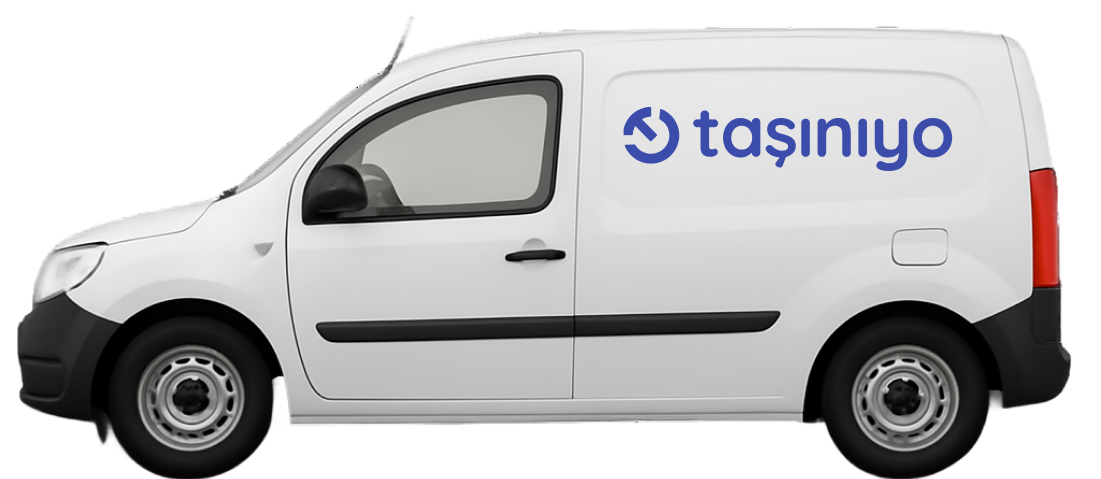
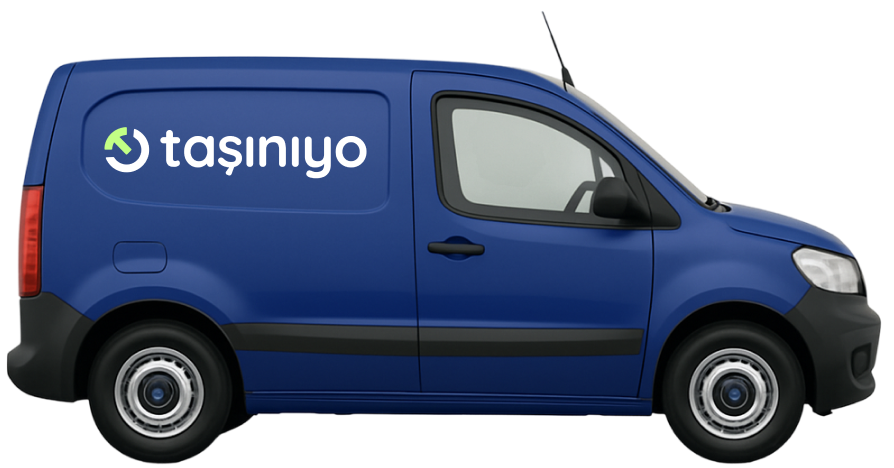
Refactor index.html layout and form design for improved user experience. Removed marquee effects for car images and text, updated form fields to use radio buttons for vehicle type selection, and enhanced styling for better responsiveness. Added new car images and replaced the old board image. Remove

diff --git a/index.html b/index.html
@@ -26,126 +26,114 @@
       background-color: #3C4CAB;
       margin: 0;
     }
-    .fixed-marquee-cars {
-      position: fixed;
-      bottom: 24px;
-      width: 100%;
-      overflow: hidden;
-      box-sizing: border-box;
-      padding: 8px 0;
-    }
-
-    .cars-container {
-      display: flex;
-      animation: scroll-cars 15s linear infinite;
-    }
-
-    .car-image {
-      height: 40px;
-      width: auto;
-      object-fit: contain;
-      flex-shrink: 0;
-    }
-
-    @keyframes scroll-cars {
-      0% { transform: translateX(0); }
-      100% { transform: translateX(-50%); }
-    }
-
-    .fixed-marquee {
-      position: fixed;
-      bottom: 0;
-      width: 100%;
-      background-color: #000;
-      overflow: hidden;
-      white-space: nowrap;
-      box-sizing: border-box;
-      padding: 4px 0;
-    }
-
-    .fixed-marquee span {
-      display: inline-block;
-      white-space: nowrap;
-      color: #fff;
-      font-size: 14px;
-      font-weight: 500;
-      padding-left: 0;
-      animation: scroll-text 120s linear infinite;
-    }
-
-    @keyframes scroll-text {
-      0% { transform: translateX(0); }
-      100% { transform: translateX(-50%); }
-    }
   </style>
 </head>
 <body>
-  <div class="flex flex-row max-w-7xl p-5 mx-auto w-full justify-between">
-    <div class="pt-8">
-      <img src="./assets/logo.webp" alt="Logo" class="h-14">
-      <p class="text-[#FFCA28] text-lg font-semibold mt-12 tracking-tight">#En sevilen taşımacılık platformu</p>
-      <h1 class="text-white text-6xl leading-[1.1] font-bold mt-2 tracking-tight">Aracınızı ve zamanınızı <br>gelire dönüştürün!</h1>
-      <p class="text-white/80 text-lg my-6">
+  <div class="flex xl:flex-row flex-col gap-16 max-w-7xl px-5 pb-5 pt-8 md:pt-16 mx-auto w-full justify-between">
+    <div class="flex justify-center items-center flex-col xl:block xl:text-left text-center">
+      <img src="./assets/logo.webp" alt="Logo" class="md:h-14 h-10">
+      <p class="text-[#FFCA28] text-lg font-semibold md:mt-16 mt-12 tracking-tight">#ensevilentasimacilikplatformu</p>
+      <h1 class="text-white md:text-6xl text-4xl leading-[1.1] font-bold mt-2 tracking-tight">Aracınızı ve zamanınızı <br>gelire dönüştürün!</h1>
+      <p class="text-white/80 md:text-lg text-sm my-6">
         Bu eşsiz fırsatı kaçırma! Taşınıyo'ya ilk katılan 100 sürücüden biri ol,<br> 3 ay boyunca yaptığın işlerin tamamını cebine koy!
       </p>
-      <div class="mt-16">
-        <img src="./assets/board.webp" alt="Board" class="w-[40rem]">
-      </div>
+      <button class="bg-[#FFCA28] py-3 px-6 text-center rounded-full text-black font-medium my-6 xl:hidden">Ayrıcalıklı Sürücü Olmak İçin Başvur</button>
+      <img src="./assets/board.webp" alt="Board" class="w-[40rem] xl:mt-16 mt-4 max-w-full">
+      <img src="./assets/cars.webp" alt="cars" class="w-[40rem] md:mt-16 mt-8 max-w-full">
     </div>
-    <div class="pt-16">
-      <img src="./assets/opportunity.webp" alt="Opportunity" class="w-[34rem] opportunity">
-      <form id="driverForm" class="p-8 bg-white rounded-2xl mt-8 flex flex-col gap-3 w-[30rem] mx-auto">
-        <div class="relative">
-          <input
-            type="text"
-            name="first_name"
-            placeholder="Ad"
-            required
-            class="border border-black/10 py-2.5 pl-10 pr-4 rounded-lg w-full focus:outline-none focus:ring-2 focus:ring-[#3C4CAB]"
-          />
-          <i class="ph ph-user text-xl absolute left-3 top-2.5"></i>
+    <div>
+      <img src="./assets/opportunity.webp" alt="Opportunity" class="w-[34rem] opportunity mx-auto">
+      <form id="driverForm" class="p-8 bg-white rounded-2xl mt-6 flex flex-col gap-3 w-[34rem] mx-auto max-w-full">
+        <div class="flex gap-3">
+          <div class="relative flex-1">
+            <input
+              type="text"
+              name="first_name"
+              placeholder="Ad"
+              required
+              class="border border-black/10 py-2.5 pl-10 pr-4 rounded-lg w-full focus:outline-none focus:ring-2 focus:ring-[#3C4CAB]"
+            />
+            <i class="ph ph-user text-xl absolute left-3 top-2.5"></i>
+          </div>
+          <div class="relative flex-1">
+            <input
+              type="text"
+              name="last_name"
+              placeholder="Soyad"
+              required
+              class="border border-black/10 py-2.5 pl-4 pr-4 rounded-lg w-full focus:outline-none focus:ring-2 focus:ring-[#3C4CAB]"
+            />
+          </div>
         </div>
-        <div class="relative">
-          <input
-            type="text"
-            name="last_name"
-            placeholder="Soyad"
-            required
-            class="border border-black/10 py-2.5 pl-10 pr-4 rounded-lg w-full focus:outline-none focus:ring-2 focus:ring-[#3C4CAB]"
-          />
-          <i class="ph ph-user-circle text-xl absolute left-3 top-2.5"></i>
+        <div class="flex gap-3 xl:flex-row flex-col">
+          <div class="relative flex-1">
+            <input
+              type="email"
+              name="email"
+              placeholder="E-posta"
+              required
+              class="border border-black/10 py-2.5 pl-10 pr-4 rounded-lg w-full focus:outline-none focus:ring-2 focus:ring-[#3C4CAB]"
+            />
+            <i class="ph ph-at text-xl absolute left-3 top-2.5"></i>
+          </div>
+          <div class="relative flex-1">
+            <input
+              type="text"
+              name="phone"
+              placeholder="Telefon"
+              required
+              class="border border-black/10 py-2.5 pl-10 pr-4 rounded-lg w-full focus:outline-none focus:ring-2 focus:ring-[#3C4CAB]"
+            />
+            <i class="ph ph-phone text-xl absolute left-3 top-2.5"></i>
+          </div>
         </div>
-        <div class="relative">
-          <input
-            type="email"
-            name="email"
-            placeholder="E-posta"
-            required
-            class="border border-black/10 py-2.5 pl-10 pr-4 rounded-lg w-full focus:outline-none focus:ring-2 focus:ring-[#3C4CAB]"
-          />
-          <i class="ph ph-at text-xl absolute left-3 top-2.5"></i>
-        </div>
-        <div class="relative">
-          <input
-            type="text"
-            name="phone"
-            placeholder="Telefon"
-            required
-            class="border border-black/10 py-2.5 pl-10 pr-4 rounded-lg w-full focus:outline-none focus:ring-2 focus:ring-[#3C4CAB]"
-          />
-          <i class="ph ph-phone text-xl absolute left-3 top-2.5"></i>
-        </div>
-        <div class="relative">
-          <select name="vehicle_type" required class="border border-black/10 py-2.5 pl-10 pr-4 rounded-lg w-full focus:outline-none focus:ring-2 focus:ring-[#3C4CAB] appearance-none bg-white">
-            <option value="">Araç Tipi Seç</option>
-            <option value="motosiklet">Motosiklet</option>
-            <option value="doblo">Doblo</option>
-            <option value="panelvan">Panelvan</option>
-            <option value="kamyonet">Kamyonet</option>
-            <option value="kamyon">Kamyon</option>
-          </select>
-          <i class="ph ph-car-profile text-xl absolute left-3 top-2.5"></i>
-          <i class="ph ph-caret-down text-xl absolute right-3 top-2.5 pointer-events-none"></i>
+        <div class="mt-2">
+          <span class="text-base mb-4 block text-gray-700">Araç Tipi Seçin</span>
+          <div class="grid grid-cols-2 gap-3">
+            <!-- Motosiklet -->
+            <label class="relative cursor-pointer">
+              <input type="radio" name="vehicle_type" value="motosiklet" class="sr-only peer" required>
+              <div class="border-2 border-gray-200 rounded-xl pb-3 hover:border-[#3C4CAB] transition-colors peer-checked:border-[#3C4CAB] peer-checked:bg-[#3C4CAB]/5">
+                <div class="flex flex-col items-center text-center">
+                  <img src="./assets/car1.webp" alt="Motosiklet" class="w-24 h-24 object-contain -mb-2">
+                  <span class="text-sm font-medium text-gray-700 peer-checked:text-[#3C4CAB]">Motosiklet</span>
+                </div>
+              </div>
+            </label>
+            
+            <!-- Minivan -->
+            <label class="relative cursor-pointer">
+              <input type="radio" name="vehicle_type" value="minivan" class="sr-only peer" required>
+              <div class="border-2 border-gray-200 rounded-xl pb-3 hover:border-[#3C4CAB] transition-colors peer-checked:border-[#3C4CAB] peer-checked:bg-[#3C4CAB]/5">
+                <div class="flex flex-col items-center text-center">
+                  <img src="./assets/car2.webp" alt="Minivan" class="w-24 h-24 object-contain -mb-2">
+                  <span class="text-sm font-medium text-gray-700 peer-checked:text-[#3C4CAB]">Minivan</span>
+                </div>
+              </div>
+            </label>
+            
+            <!-- Panelvan -->
+            <label class="relative cursor-pointer">
+              <input type="radio" name="vehicle_type" value="panelvan" class="sr-only peer" required>
+              <div class="border-2 border-gray-200 rounded-xl pb-3 hover:border-[#3C4CAB] transition-colors peer-checked:border-[#3C4CAB] peer-checked:bg-[#3C4CAB]/5">
+                <div class="flex flex-col items-center text-center">
+                  <img src="./assets/car3.webp" alt="Panelvan" class="w-24 h-24 object-contain -mb-2">
+                  <span class="text-sm font-medium text-gray-700 peer-checked:text-[#3C4CAB]">Panelvan</span>
+                </div>
+              </div>
+            </label>
+            
+            <!-- Kamyonet -->
+            <label class="relative cursor-pointer">
+              <input type="radio" name="vehicle_type" value="kamyonet" class="sr-only peer" required>
+              <div class="border-2 border-gray-200 rounded-xl pb-3 hover:border-[#3C4CAB] transition-colors peer-checked:border-[#3C4CAB] peer-checked:bg-[#3C4CAB]/5">
+                <div class="flex flex-col items-center text-center">
+                  <img src="./assets/car4.webp" alt="Kamyonet" class="w-24 h-24 object-contain -mb-2">
+                  <span class="text-sm font-medium text-gray-700 peer-checked:text-[#3C4CAB]">Kamyonet</span>
+                </div>
+              </div>
+            </label>
+          </div>
         </div>
         
         <div class="flex flex-col mt-4 ml-3">
@@ -161,50 +149,11 @@
             </label>
           </div>
         </div>
-        <button type="submit" disabled class="bg-black py-3 px-4 text-center rounded-lg text-white font-medium mt-6 opacity-50 cursor-not-allowed transition-opacity">Gönder</button>
+        <button type="submit" disabled class="bg-[#3C4CAB] py-3 px-4 text-center rounded-lg text-white font-medium mt-6 opacity-50 cursor-not-allowed transition-opacity">Ayrıcalıklı Sürücü Olmak İçin Başvur</button>
       </form>
     </div>
 
   </div>
-  <!-- Araç görselleri marquee -->
-  <div class="fixed-marquee-cars">
-    <div class="cars-container">
-      <img src="./assets/car1.webp" alt="Araç 1" class="car-image">
-      <img src="./assets/car2.webp" alt="Araç 2" class="car-image">
-      <img src="./assets/car3.webp" alt="Araç 3" class="car-image">
-      <img src="./assets/car4.webp" alt="Araç 4" class="car-image">
-      <img src="./assets/car1.webp" alt="Araç 1" class="car-image">
-      <img src="./assets/car2.webp" alt="Araç 2" class="car-image">
-      <img src="./assets/car3.webp" alt="Araç 3" class="car-image">
-      <img src="./assets/car4.webp" alt="Araç 4" class="car-image">
-      <img src="./assets/car1.webp" alt="Araç 1" class="car-image">
-      <img src="./assets/car2.webp" alt="Araç 2" class="car-image">
-      <img src="./assets/car3.webp" alt="Araç 3" class="car-image">
-      <img src="./assets/car4.webp" alt="Araç 4" class="car-image">
-    </div>
-  </div>
-
-  <!-- Metin marquee -->
-  <div class="fixed-marquee">
-    <span>
-      İstanbul, Ankara, İzmir ve Muğla'da Başladık, Çok Yakında Tüm Türkiye'deyiz! &nbsp; 
-      İstanbul, Ankara, İzmir ve Muğla'da Başladık, Çok Yakında Tüm Türkiye'deyiz! &nbsp; 
-      İstanbul, Ankara, İzmir ve Muğla'da Başladık, Çok Yakında Tüm Türkiye'deyiz! &nbsp; 
-      İstanbul, Ankara, İzmir ve Muğla'da Başladık, Çok Yakında Tüm Türkiye'deyiz! &nbsp; 
-      İstanbul, Ankara, İzmir ve Muğla'da Başladık, Çok Yakında Tüm Türkiye'deyiz! &nbsp; 
-      İstanbul, Ankara, İzmir ve Muğla'da Başladık, Çok Yakında Tüm Türkiye'deyiz! &nbsp; 
-      İstanbul, Ankara, İzmir ve Muğla'da Başladık, Çok Yakında Tüm Türkiye'deyiz! &nbsp; 
-      İstanbul, Ankara, İzmir ve Muğla'da Başladık, Çok Yakında Tüm Türkiye'deyiz! &nbsp; 
-      İstanbul, Ankara, İzmir ve Muğla'da Başladık, Çok Yakında Tüm Türkiye'deyiz! &nbsp; 
-      İstanbul, Ankara, İzmir ve Muğla'da Başladık, Çok Yakında Tüm Türkiye'deyiz! &nbsp; 
-      İstanbul, Ankara, İzmir ve Muğla'da Başladık, Çok Yakında Tüm Türkiye'deyiz! &nbsp; 
-      İstanbul, Ankara, İzmir ve Muğla'da Başladık, Çok Yakında Tüm Türkiye'deyiz! &nbsp; 
-      İstanbul, Ankara, İzmir ve Muğla'da Başladık, Çok Yakında Tüm Türkiye'deyiz! &nbsp;
-      İstanbul, Ankara, İzmir ve Muğla'da Başladık, Çok Yakında Tüm Türkiye'deyiz! 
-    </span>
-  </div>
-
-  <script src="./config.js"></script>
   <script>
     const opportunity = document.querySelector('.opportunity');
   
@@ -232,7 +181,11 @@
       const lastName = form.last_name.value.trim();
       const email = form.email.value.trim();
       const phone = form.phone.value.trim();
-      const vehicleType = form.vehicle_type.value;
+      
+      // Radio butonlardan seçili olanı bul
+      const selectedVehicleType = document.querySelector('input[name="vehicle_type"]:checked');
+      const vehicleType = selectedVehicleType ? selectedVehicleType.value : '';
+      
       const consentYesChecked = consentYes.checked;
       const consentNoChecked = document.getElementById("consentNo").checked;
 
@@ -256,7 +209,13 @@
     form.last_name.addEventListener("input", updateButtonState);
     form.email.addEventListener("input", updateButtonState);
     form.phone.addEventListener("input", updateButtonState);
-    form.vehicle_type.addEventListener("change", updateButtonState);
+    
+    // Radio butonlar için event listener ekle
+    const vehicleTypeRadios = document.querySelectorAll('input[name="vehicle_type"]');
+    vehicleTypeRadios.forEach(radio => {
+      radio.addEventListener("change", updateButtonState);
+    });
+    
     consentYes.addEventListener("change", updateButtonState);
     document.getElementById("consentNo").addEventListener("change", updateButtonState);
     
@@ -297,7 +256,7 @@
         last_name: form.last_name.value,
         email: form.email.value,
         phone: form.phone.value,
-        vehicle_type: form.vehicle_type.value
+        vehicle_type: document.querySelector('input[name="vehicle_type"]:checked').value
       };
 
       try {
